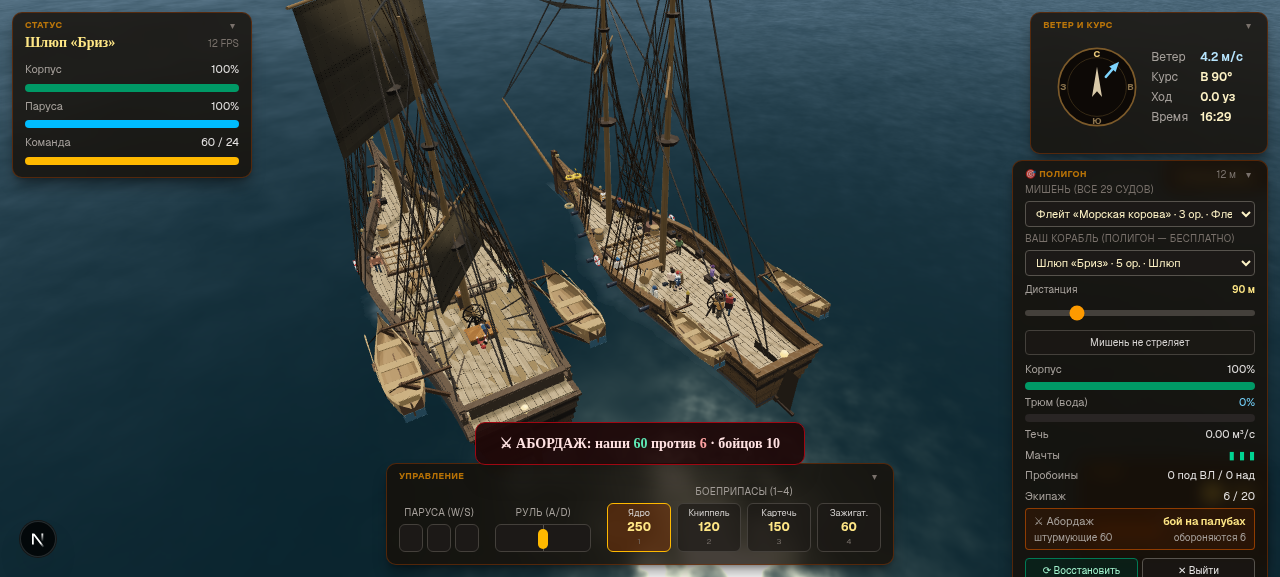
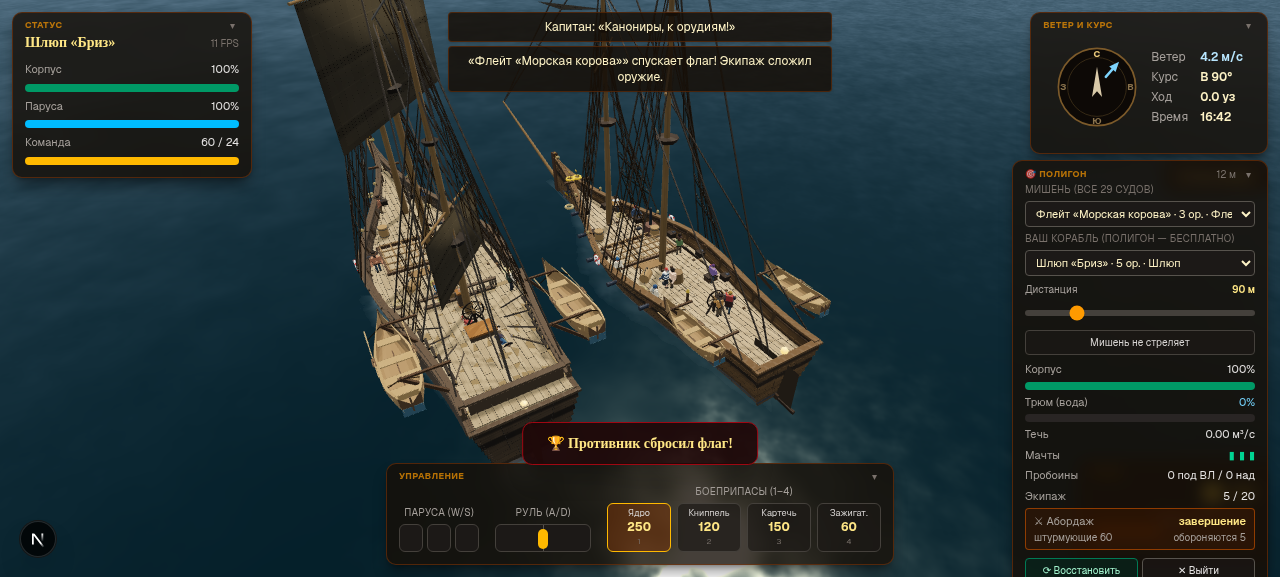
fix(Task 88): дубль подсказки абордажа из ребейза — старый E-блок удалён
При разрешении ребейза Task 88 в src/app/page.tsx старый хвост секции подсказок
остался вклеенным после нового: дублировались «E — АБОРДАЖ: …» (старая клавиша)
и весь баннер hud.boarding (hooks/lash/fight/ending). Игрок видел ОБЕ строки
(«G — АБОРДАЖ…» + «E — АБОРДАЖ…») и жалобы «E всё ещё абордирует» была про
видимую E-подсказку — сам обработчик E абордаж не запускает (проверено на
живой странице: у мишени E → boarding=false; клавиша c.boarding='KeyG').

Удалён дублированный кусок; дифф page.tsx против 1999de7 — ровно правки Task 88.
Проверено: VLM по живому скриншоту — подсказка одна («G — АБОРДАЖ», E нет);
e2e_v85 — 19/19 ALL OK; tsc/eslint чистые.

diff --git a/src/app/page.tsx b/src/app/page.tsx
@@ -1029,39 +1029,6 @@ export default function Home() {
                 )}
               </div>
             )}
-            {hud.canBoard && hud.boardedName && hud.boardKind === 'assault' && (
-              <div className="pointer-events-none rounded-lg border border-red-700 bg-[#1f0a0a]/90 px-5 py-2 text-sm text-red-200 shadow-lg animate-pulse">
-                <b>E</b> — <b>АБОРДАЖ</b>: {hud.boardedName} (кошки на борт, мостки, бой на палубах)
-              </div>
-            )}
-            {hud.boarding && (
-              <div className="pointer-events-none rounded-lg border border-red-800 bg-[#1f0808]/95 px-6 py-2.5 text-sm text-red-100 shadow-xl">
-                {hud.boarding.phase === 'hooks' && (
-                  <span className="font-serif font-bold">🪝 {hud.boarding.attackerIsPlayer
-                    ? `Кошки на борту «${hud.boarding.defender}» — тали тянут…`
-                    : `«${hud.boarding.attacker}» зацепил нас крюками — тали тянут!`}</span>
-                )}
-                {hud.boarding.phase === 'lash' && (
-                  <span className="font-serif font-bold">🪝 Сцепка! Мостки на борт — {hud.boarding.planksDown}/{hud.boarding.planks} досок</span>
-                )}
-                {hud.boarding.phase === 'fight' && (
-                  <span className="font-serif font-bold">
-                    ⚔ АБОРДАЖ: наши <span className="text-emerald-300">{hud.boarding.crewA}</span>
-                    {' '}против{' '}
-                    <span className="text-red-300">{hud.boarding.crewD}</span>
-                    {' '}· бойцов {hud.boarding.fightersA + hud.boarding.fightersD}
-                  </span>
-                )}
-                {hud.boarding.phase === 'ending' && (
-                  <span className="font-serif font-bold text-amber-200">
-                    {hud.boarding.result === 'won' && '🏆 Противник сбросил флаг!'}
-                    {hud.boarding.result === 'repelled' && 'Абордаж отбит…'}
-                    {hud.boarding.result === 'lost' && 'Мы проиграли бой…'}
-                    {hud.boarding.result === 'aborted' && 'Отбой абордажа…'}
-                  </span>
-                )}
-              </div>
-            )}
             {hud.canDock && !hud.aiming && (
               <div className="rounded-lg border border-amber-600 bg-[#1f1608]/90 px-5 py-2 text-sm text-amber-200 shadow-lg animate-pulse">
                 <b>E</b> — пришвартоваться: {hud.nearPortName ?? 'гавань'}

diff --git a/worklog.md b/worklog.md
@@ -1179,3 +1179,7 @@ Stage Summary:
 **4) САБЛЯ В ПРАВОЙ РУКЕ (crew.ts + lander.ts).** Маунт у кисти выбирался «последней» рукой цикла `[-1, 1]` = +X = ЛЕВАЯ рука персонажа (фигурка смотрит в +Z, камера сзади: −X экранный правый = правая рука). Порядок цикла → [1, −1]: маунт всегда на правой, крюк (если включён) — на левой. Локальные офсеты сабли/пистолета/трубы зеркалированы (x→−x, наклон сабли rotation.z +0.3 «наружу»), анимация руки с оружием = прежний «крюкастый» случай (wrist=armL, freeArm=armR, wz=+0.16) — маунт и анимация снова совпадают, «третья рука» не вернулась. Телеметрия wristPose — по armL.
 
 **e2e_v85 — 19/19 ALL OK** (было 17): B1/B2 — подсказка и запуск РЕАЛЬНОЙ клавишей G (настройка c.boarding); K1 (новая) — депрессия: aim.elevation=−0.08 → aimDirection().y<0; K2 (новая) — сабля/пистолет на маунте armL (правая рука); G — VLM да×3 (связка видна); W — шторм washed=7 при sea=5.2 м. Виз: VLM по скриншоту капитана с саблей — «RIGHT side» = правая рука (вид сзади: экранный правый = правый персонажа). tsc чист, eslint 0 ошибок. Артефакты: download/task85/e2e_v85_run.txt, download/task88/v88_saber.png.
+
+### Task 88 — правка (2026-11-27)
+
+Жалоба игрока: «продолжается отработка абордажа по кнопке e и дублирование текста для абордажа». Разбор: код G-фикса был правилен (проверено на живой странице: у мишени полигона E → boarding=false, key='KeyG'), но при разрешении ребейза Task 88 в `src/app/page.tsx` СТАРЫЙ хвост секции подсказок остался ВКЛЕЕННЫМ после нового: дублировались блок «E — АБОРДАЖ: …» (assault-подсказка со старой клавишей) и ВЕСЬ баннер `hud.boarding` (фазы hooks/lash/fight/ending). Игрок видел две строки — «G — АБОРДАЖ …» и «E — АБОРДАЖ …» — и, нажимая E по видимой подсказке, ожидал абордаж. Удалён дублированный кусок (строки 1032–1064): дифф page.tsx против 1999de7 теперь ровно четыре правки Task 88 (keyLabel в prize/assault подсказках, строка в хелпе, «нажмите {key}» в «Добыче»); `hud.boarding &&` — 2 легитимных места (панель полигона + баннер HUD). Проверка: VLM по живому скриншоту — подсказка ОДНА, «G — АБОРДАЖ», упоминаний E нет; e2e_v85 — 19/19 ALL OK; tsc/eslint чистые.
